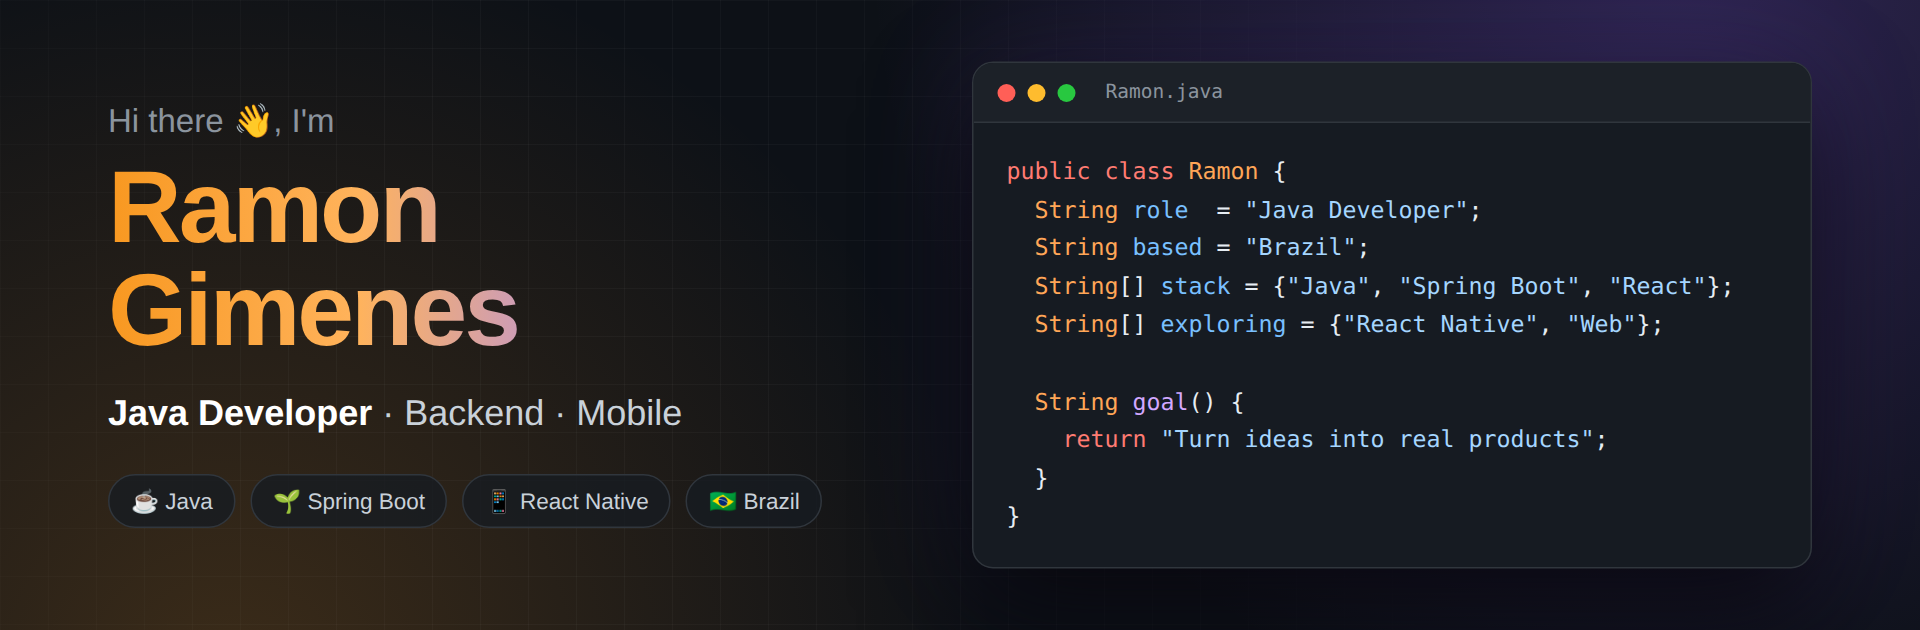
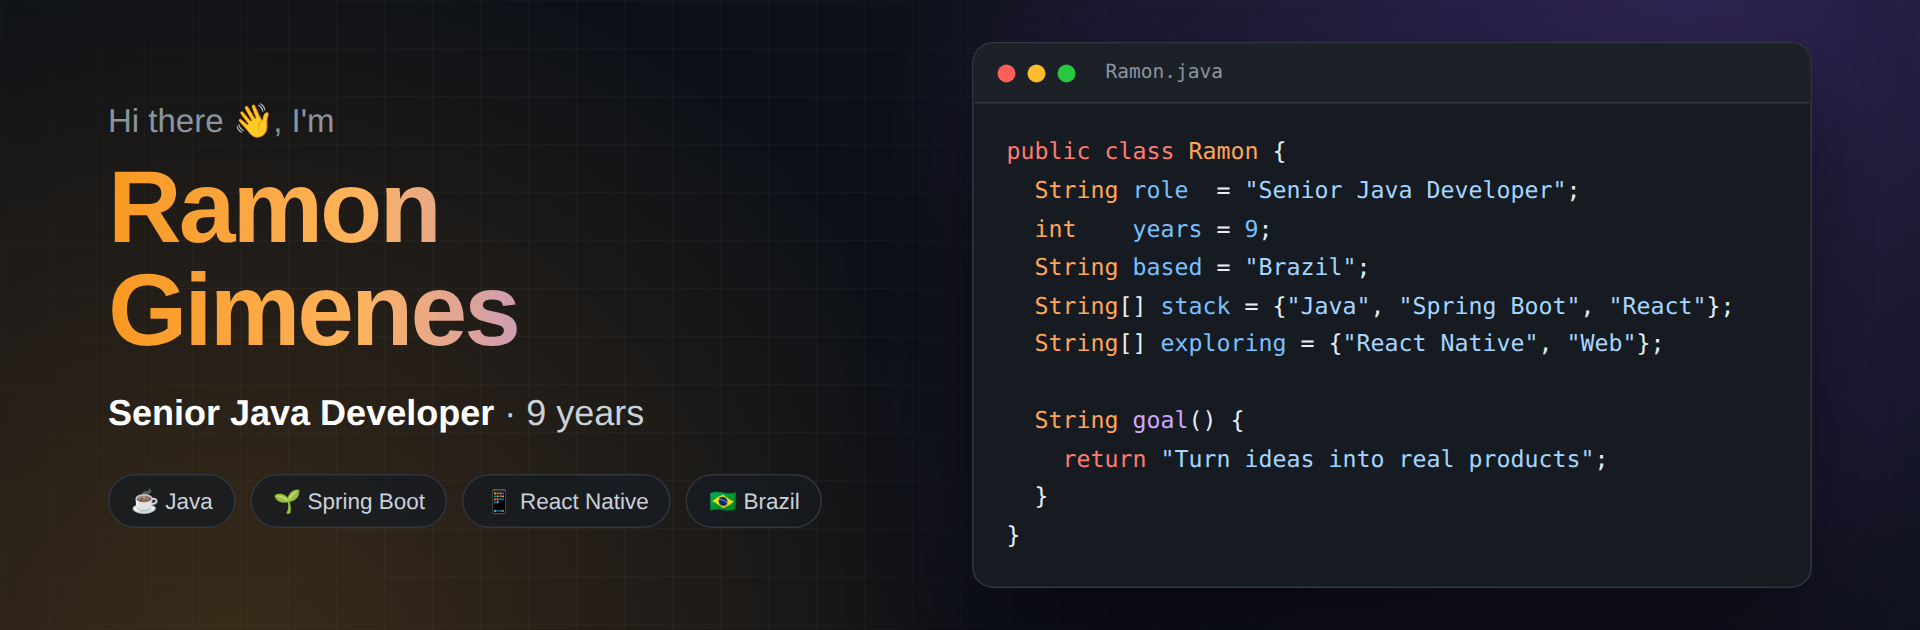
Show senior level, 9 years of experience and the full stack
Update the banner and About me to senior Java developer with 9 years of
experience, and add Data and Infra rows plus Hibernate and Quarkus to the
tech stack so the profile matches the portfolio.

diff --git a/README.md b/README.md
@@ -1,6 +1,6 @@
 <div align="center">
 
-<img src="assets/banner.png" alt="Ramon Gimenes — Java Developer · Backend · Mobile" width="100%">
+<img src="assets/banner.png" alt="Ramon Gimenes — Senior Java Developer · 9 years" width="100%">
 
 <br>
 
@@ -12,14 +12,14 @@
 
 ## 👨💻 About me
 
-Brazilian developer focused on **Java**, always exploring new technologies and building
-practical solutions. I'm improving my skills in **backend**, **frontend** and **mobile** with
-**React Native**, and my goal is simple: keep evolving and turn ideas into real products.
+**Senior Java developer** from Brazil with **9 years of experience** building backends with
+**Java and Spring Boot**. I also build mobile apps with **React Native**, and I like solutions
+that are simple, useful and easy to use: code matters, but the solved problem is what counts.
 
-- ☕ Building backends with **Java** and **Spring Boot**
-- 📱 Learning **React Native** and modern web development
-- 🍅 Currently building [**Fokus**](https://github.com/ramongime/Fokus), a Pomodoro app for focus
-- 💡 I like solutions that are simple, useful and easy to use
+- ☕ 9 years building backends with **Java** and **Spring Boot**
+- 🧩 Microservices, relational and NoSQL databases, messaging and cloud
+- 📱 Creator of [**Ciclos**](https://ciclosapp.com.br/) and [**Fokus**](https://github.com/ramongime/Fokus), built with React Native
+- 💡 Simple, useful and easy to use: that's the goal
 
 <br>
 
@@ -31,7 +31,19 @@ practical solutions. I'm improving my skills in **backend**, **frontend** and **
     <td>
       <img src="assets/stack/java.svg" width="52" alt="Java" title="Java">
       <img src="assets/stack/spring.svg" width="52" alt="Spring Boot" title="Spring Boot">
-      <br><sub>Java · Spring Boot · REST APIs · SQL</sub>
+      <img src="assets/stack/hibernate.svg" width="52" alt="Hibernate" title="Hibernate">
+      <img src="assets/stack/quarkus.svg" width="52" alt="Quarkus" title="Quarkus">
+      <br><sub>Java · Spring Boot · Hibernate · Quarkus · REST APIs</sub>
+    </td>
+  </tr>
+  <tr>
+    <td align="center"><b>Data</b></td>
+    <td>
+      <img src="assets/stack/postgresql.svg" width="52" alt="PostgreSQL" title="PostgreSQL">
+      <img src="assets/stack/mongodb.svg" width="52" alt="MongoDB" title="MongoDB">
+      <img src="assets/stack/redis.svg" width="52" alt="Redis" title="Redis">
+      <img src="assets/stack/kafka.svg" width="52" alt="Apache Kafka" title="Apache Kafka">
+      <br><sub>SQL · PostgreSQL · MongoDB · Redis · Kafka</sub>
     </td>
   </tr>
   <tr>
@@ -50,6 +62,15 @@ practical solutions. I'm improving my skills in **backend**, **frontend** and **
       <img src="assets/stack/react.svg" width="52" alt="React Native" title="React Native">
       <img src="assets/stack/expo.svg" width="52" alt="Expo" title="Expo">
       <br><sub>React Native · Expo</sub>
+    </td>
+  </tr>
+  <tr>
+    <td align="center"><b>Infra</b></td>
+    <td>
+      <img src="assets/stack/docker.svg" width="52" alt="Docker" title="Docker">
+      <img src="assets/stack/kubernetes.svg" width="52" alt="Kubernetes" title="Kubernetes">
+      <img src="assets/stack/aws.svg" width="52" alt="AWS" title="AWS">
+      <br><sub>Docker · Kubernetes · AWS · CI/CD</sub>
     </td>
   </tr>
   <tr>
